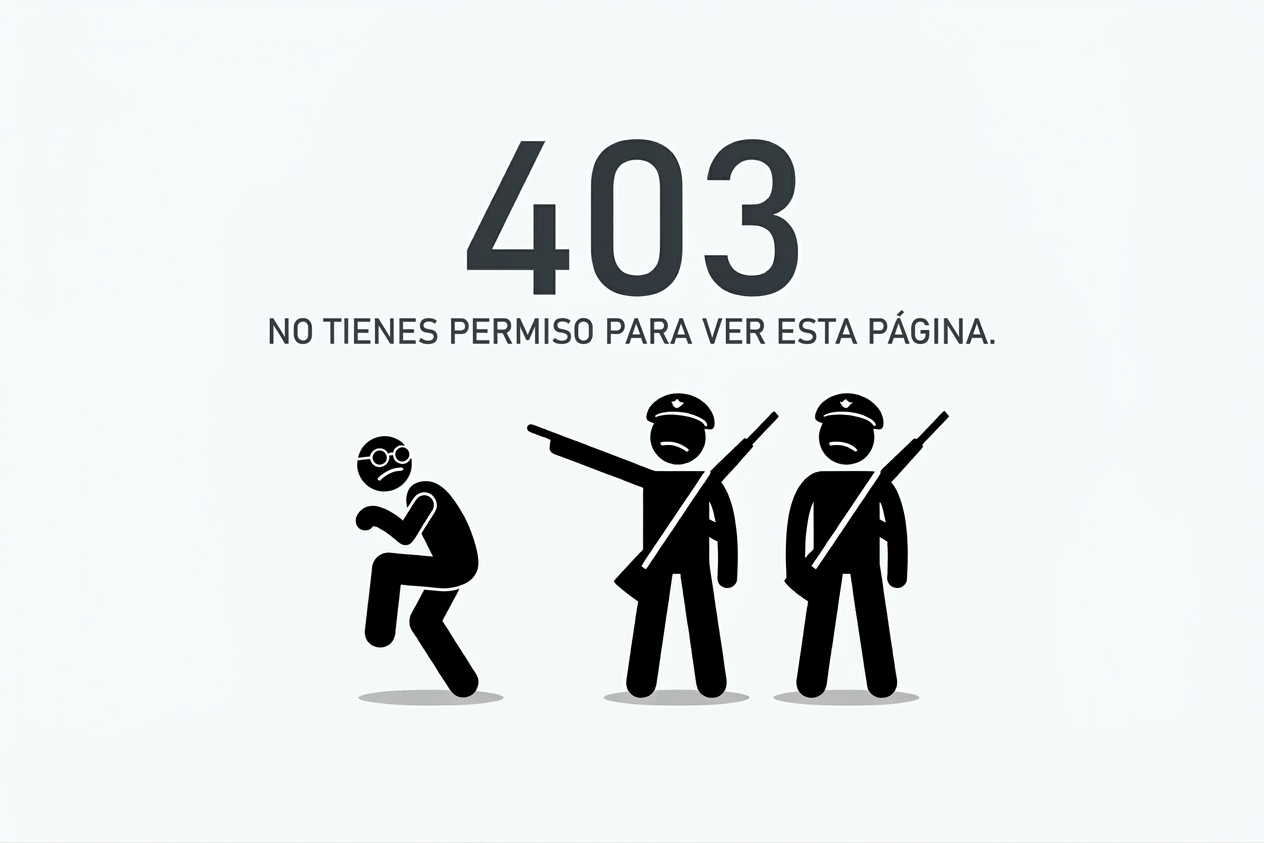
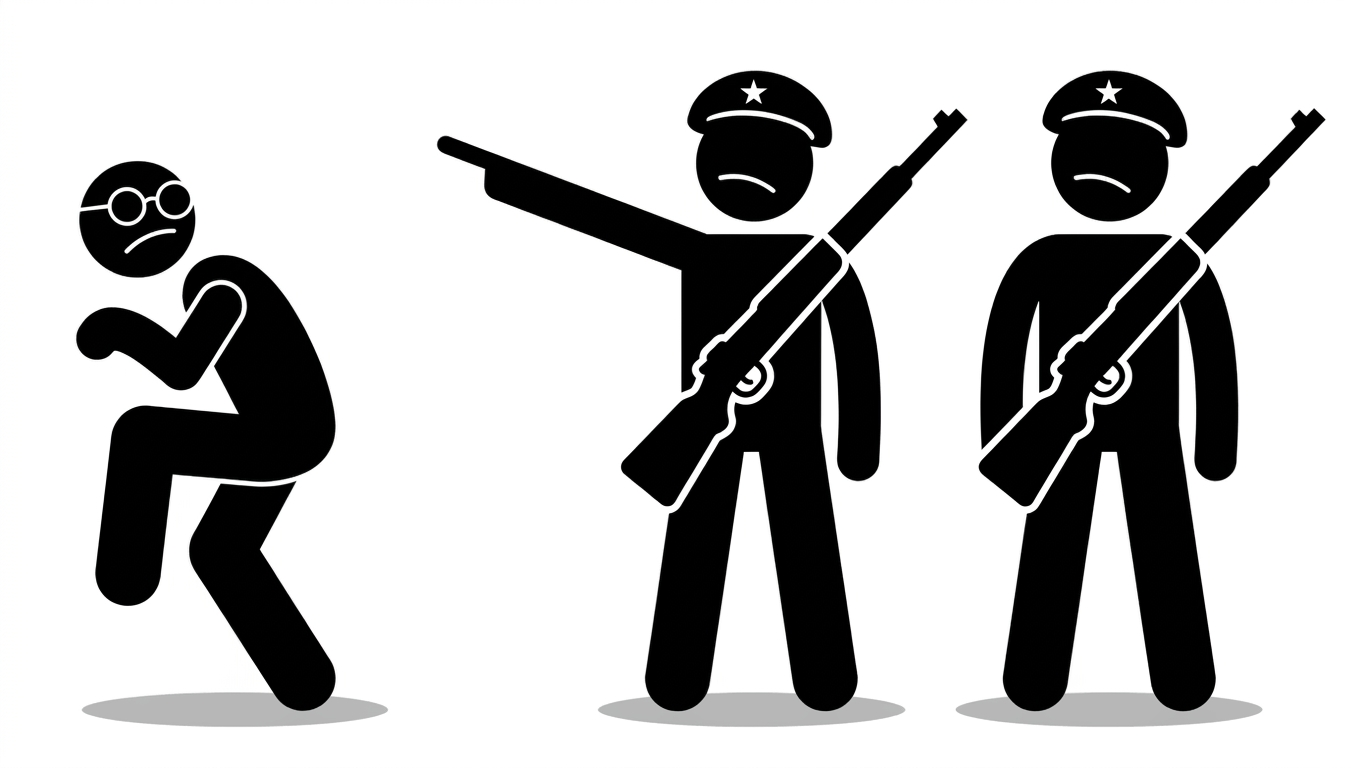
Correcion de la imagen y texto del error 403

diff --git a/resources/views/errors/403.blade.php b/resources/views/errors/403.blade.php
@@ -6,7 +6,6 @@
     <title>Acceso denegado</title>
     
     <style>
-        /* Reset completo */
         * {
             margin: 0;
             padding: 0;
@@ -19,21 +18,37 @@
         }
         
         body {
-            background-color: #030712;
+            background-color: #ffffff;
             display: flex;
             align-items: center;
             justify-content: center;
-            font-family: -apple-system, BlinkMacSystemFont, 'Segoe UI', Roboto, Oxygen, Ubuntu, sans-serif;
-            overflow: hidden; /* Elimina scrollbars */
+            font-family: -apple-system, BlinkMacSystemFont, 'Segoe UI', Roboto, Arial, sans-serif;
         }
         
         .container {
             display: flex;
+            flex-direction: column;
             align-items: center;
             justify-content: center;
             width: 100%;
-            height: 100vh;
-            padding: 2rem;
+            max-width: 700px;
+            padding: 1rem;
+        }
+        
+        .title {
+            font-size: 3rem;
+            font-weight: 700;
+            color: #1a1a1a;
+            margin-bottom: 0.3rem;
+            text-align: center;
+        }
+        
+        .subtitle {
+            font-size: 1.2rem;
+            color: #666;
+            margin-bottom: 1.5rem;
+            text-align: center;
+            font-weight: 400;
         }
         
         .image-wrapper {
@@ -41,12 +56,11 @@
             align-items: center;
             justify-content: center;
             width: 100%;
-            height: 100%;
         }
         
         .image-wrapper img {
-            max-width: 90%;
-            max-height: 90vh;
+            max-width: 80%;
+            max-height: 55vh;
             width: auto;
             height: auto;
             object-fit: contain;
@@ -56,6 +70,8 @@
 </head>
 <body>
     <div class="container">
+        <h1 class="title">Error 403</h1>
+        <p class="subtitle">No tienes permiso para ver esta página</p>
         <div class="image-wrapper">
             <img 
                 src="{{ asset('images/403.webp') }}" 
